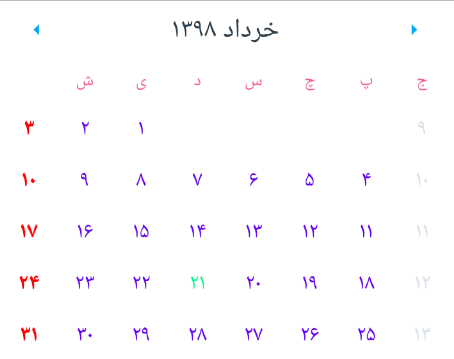
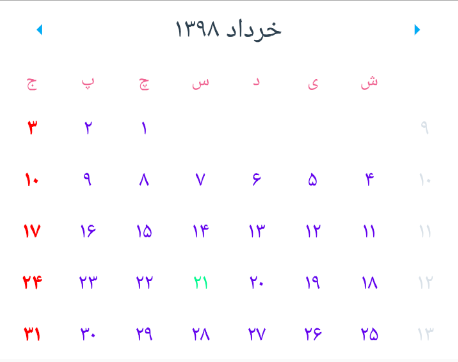
Fixed: calendar header does not show correctly in rtl(right to left) mode

diff --git a/src/calendar/header/index.js b/src/calendar/header/index.js
@@ -84,6 +84,7 @@ class CalendarHeader extends Component {
     let leftArrow = <View />;
     let rightArrow = <View />;
     let weekDaysNames = weekDayNames(this.props.firstDay);
+    let rtlStyle = null;
     if (!this.props.hideArrows) {
       leftArrow = (
         <TouchableOpacity
@@ -125,6 +126,12 @@ class CalendarHeader extends Component {
         ? pFormat(this.props.month, this.props.jalaliMonthFormat)
         : this.props.month.toString(this.props.monthFormat);
 
+    if(this.props.rtl){
+      rtlStyle = {
+        flexDirection: "row-reverse"
+      }
+    }
+
     return (
       <View>
         <View style={this.style.header}>
@@ -139,7 +146,7 @@ class CalendarHeader extends Component {
         </View>
         {
           !this.props.hideDayNames &&
-          <View style={this.style.week}>
+          <View style={[this.style.week, rtlStyle]}>
             {this.props.weekNumbers && <Text allowFontScaling={false} style={this.style.dayHeader}></Text>}
             {weekDaysNames.map((day, idx) => (
               <Text allowFontScaling={false} key={idx} accessible={false} style={this.style.dayHeader} numberOfLines={1} importantForAccessibility='no'>{day}</Text>

diff --git a/src/calendar/index.js b/src/calendar/index.js
@@ -301,6 +301,7 @@ class Calendar extends Component {
           weekNumbers={this.props.showWeekNumbers}
           onPressArrowLeft={this.props.onPressArrowLeft}
           onPressArrowRight={this.props.onPressArrowRight}
+          rtl={this.props.rtl}
         />
         <View style={this.style.monthView}>{weeks}</View>
       </View>);

diff --git a/PersianCalendarExample/index.js b/PersianCalendarExample/index.js
@@ -56,7 +56,7 @@ export default class PersianCalendarExample extends Component {
         fridays[tempDate] = {
           customStyles: {
             text: {
-              fontSize: 32,
+              fontSize: 20,
               fontWeight: "600",
               color: "red"
             }
